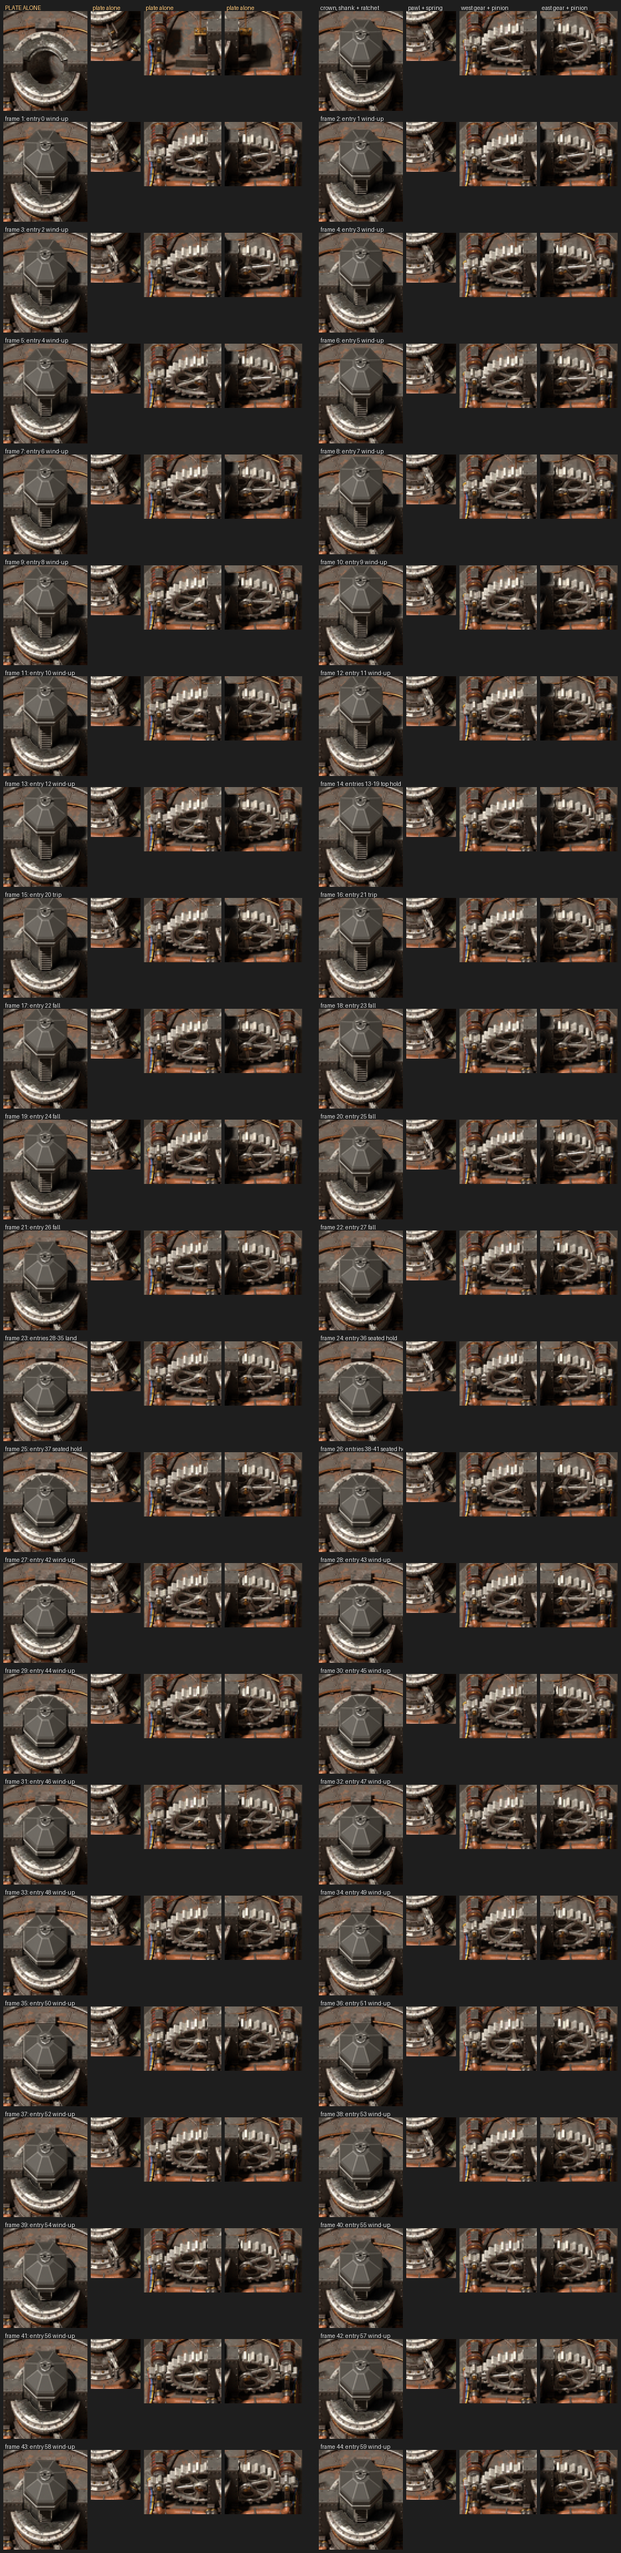
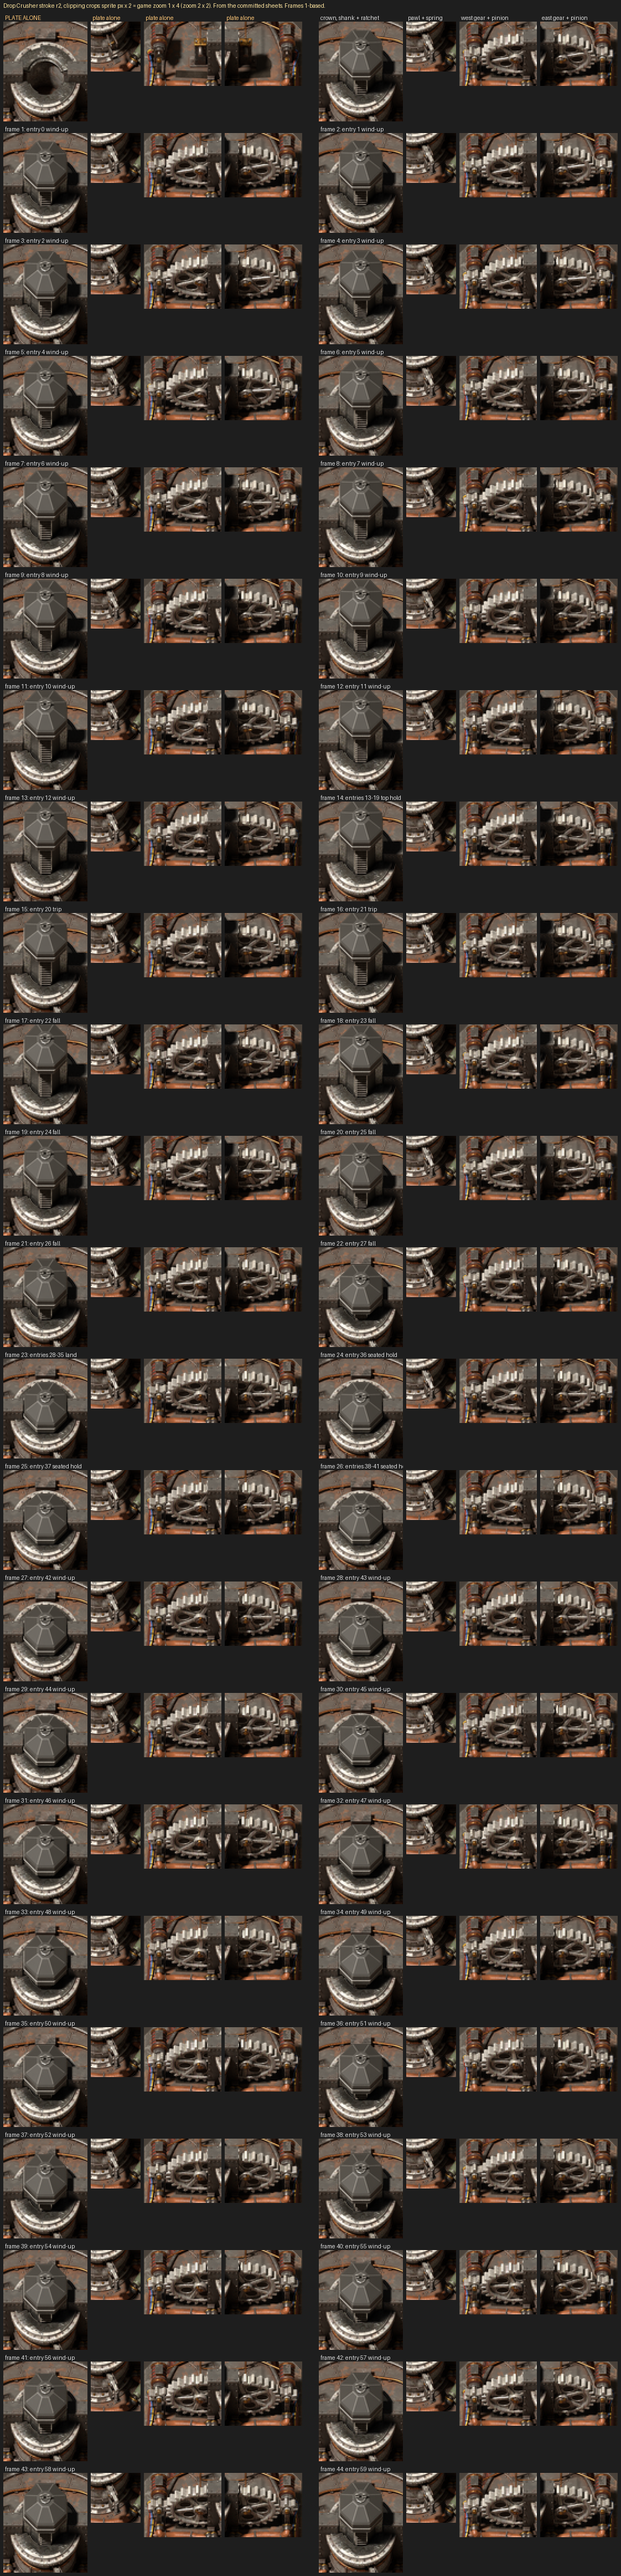
WIP: Drop Crusher T03 review fixes: GIFs at true game zoom 1 and zoom 2, one palette so holds are still, built from the committed sheets
Claude-Session: https://claude.ai/code/session_01Rt7HiYFBr7fP1oZMv54dmt

diff --git a/concept/drop-crusher/model/stroke_r2.py b/concept/drop-crusher/model/stroke_r2.py
@@ -1,41 +1,54 @@
 #!/usr/bin/env python3
 """The re-timed stroke (2026-11, .claude/tasks/drop-crusher-reanimation.md T03): its GIFs
-and its crops sheet, off a render.sh run.
+and its crops sheet, drawn from the packed sheets as the engine draws them.
 
-  python3 stroke_r2.py <out-dir> <dest-dir>
+  python3 stroke_r2.py <sheets-dir> <dest-dir>
 
-  <out-dir>   render.sh's output directory (renders/: idle, still, shadow, lamp, stroke-NN;
-              renders/render.json: the 44 sheet frames and the 60-entry frame_sequence)
-  <dest-dir>  writes stroke-r2.gif, stroke-r2-slow.gif, crops-r2.png (and crops-r2-b.png
-              if the frames do not fit one page under 8000 px)
+  <sheets-dir>  the packed sheets and their meta.json: base.png, base-shadow.png,
+                status-lamp.png, stroke.png (44 frames) and the stroke's frame_sequence
+                -- concept/drop-crusher/model/sheets, the committed ones
+  <dest-dir>    writes the files below
 
-stroke-r2.gif: the 60 entries in the sequence's order at game speed, 4 ticks an entry, 15
+Every picture is the sprites put down at their meta.json shifts round the entity's
+origin, in the engine's order: the shadow (its alpha at half, as the game darkens the
+ground), the plate, the stroke's frame, the status lamp's white cut tinted green
+(working). The sheets are scale 0.5: 64 sprite px a tile.
+
+Game zoom: at zoom 1 the game draws 32 px a tile, so a scale-0.5 sprite at half its own
+size; at zoom 2, 64 px a tile, the sprite's own pixels.
+
+  stroke-r2.gif              game zoom 1: the sprites halved (2 x 2 box average), 160 px
+                             for the 5-tile ground
+  stroke-r2-zoom2.gif        game zoom 2: the sprites' own pixels, 320 px
+  stroke-r2-slow.gif         zoom 1 at 0.25x speed
+  stroke-r2-zoom2-slow.gif   zoom 2 at 0.25x speed
+  crops-r2.png               the clipping check by eye: sprite px x 2, which is game
+                             zoom 1 x 4 (zoom 2 x 2)
+
+The GIFs play the 60 entries in the sequence's order at game speed, 4 ticks an entry, 15
 a second (GIF durations are whole 10 ms: 70, 70, 60 for 66.7 ms on average, 4.0 s a
-loop); the machine at 1x (the sprites' own pixels) on one ground with the tile grid, the
-working lamp green; the entry, its sheet frame and its step named under it.
-stroke-r2-slow.gif: the same at 0.25x (270, 270, 260 ms, 16.0 s a loop).
+loop); the slow copies 270, 270, 260 ms, 16.0 s. Every frame of a GIF is quantised to one
+palette, shared by all of them and built from all of them, without dithering, so held
+entries are the same pixels in the GIF, not only in the sheet: checked after writing,
+by reading the GIF back (main() prints it). Frame numbers are the sheet's, 1-based, as
+the prototype's frame_sequence counts them.
 
-crops-r2.png: the clipping check by eye, at 2x. Two sheet frames a row (each played entry
-named), four crops each, layered as the engine draws them (shadow, plate, the frame):
-the crown, its shank and ratchet in the collar; the pawl in its window and its spring;
-the west gear and pinion; the east gear and pinion. Its first row is the
-stillness test: the plate alone (every moving part off), the same crops, so what any
-moving part uncovers is on the plate already; beside it sheet frame 1 with the crops named.
+crops-r2.png: two sheet frames a row (each played entry named), four crops each: the
+crown, its shank and ratchet in the collar; the pawl in its window and its spring; the
+west gear and pinion; the east gear and pinion. Its first row is the stillness test:
+the plate alone, the same crops, so what any moving part uncovers is on the plate
+already; beside it sheet frame 1 with the crops named.
 """
 import json
 import os
 import sys
 
-from PIL import Image, ImageDraw
-
-HERE = os.path.dirname(os.path.abspath(__file__))
-REPO = os.path.normpath(os.path.join(HERE, "..", "..", ".."))
-sys.path.insert(0, os.path.join(REPO, "tools", "blender"))
-import pack  # noqa: E402
+from PIL import Image, ImageChops, ImageDraw
 
 GROUND = (74, 66, 58, 255)
-PPT = 64                        # sprite px a tile (scale 0.5 sheets)
-SIZE = 5 * PPT
+PPT = 64                        # sprite px a tile (scale 0.5 sheets): game zoom 2
+TILES = 5
+SIZE = TILES * PPT
 O = SIZE / 2
 STEPS = [(0, 12, "wind-up"), (13, 19, "top hold"), (20, 21, "trip"), (22, 27, "fall"), (28, 28, "land"),
          (29, 41, "seated hold"), (42, 59, "wind-up")]
@@ -45,70 +58,123 @@ CROPS = [("crown, shank + ratchet", (0.0, -1.25), 1.2, 1.4),
          ("pawl + spring", (0.24, -0.45), 0.7, 0.7),
          ("west gear + pinion", (-0.95, -1.05), 1.1, 0.9),
          ("east gear + pinion", (0.95, -1.05), 1.1, 0.9)]
+BAR = (30, 30, 30, 255)
 
 
 def step_of(e):
     return next(n for a, b, n in STEPS if a <= e <= b)
 
 
-class Crusher:
-    def __init__(self, out):
-        self.r = os.path.join(out, "renders")
-        self.decl = json.load(open(os.path.join(self.r, "render.json")))
-        a = self.decl["animations"][0]
-        self.n, self.seq = a["frames"], a["frame_sequence"]
-        self.cache = {}
+class Sheets:
+    def __init__(self, src):
+        self.src = src
+        self.meta = json.load(open(os.path.join(src, "meta.json")))
+        st = self.meta["stroke"]
+        self.n, self.seq, self.line = st["frames"], st["frame_sequence"], st["line_length"]
+        self.fw, self.fh = st["size"]
+        self.im = {k: Image.open(os.path.join(src, k + ".png")).convert("RGBA")
+                   for k in ("base", "base-shadow", "status-lamp", "stroke")}
 
-    def open(self, stem):
-        if stem not in self.cache:
-            self.cache[stem] = Image.open(os.path.join(self.r, stem + ".png")).convert("RGBA")
-        return self.cache[stem]
+    def put(self, canvas, im, key):
+        sx, sy = self.meta[key]["shift"]
+        x = round(O + sx * PPT - im.width / 2)
+        y = round(O + sy * PPT - im.height / 2)
+        canvas.alpha_composite(im, (x, y))
 
-    def panel(self, f=None, lamp=True, grid=True):
-        """The machine on the ground; f the sheet frame (0-based), None for the plate alone."""
+    def frame(self, f):
+        """Sheet frame f (0-based) cut from stroke.png."""
+        x, y = (f % self.line) * self.fw, (f // self.line) * self.fh
+        return self.im["stroke"].crop((x, y, x + self.fw, y + self.fh))
+
+    def panel(self, f=None, lamp=True):
+        """The machine on the ground at game zoom 2; f the sheet frame (0-based), None for
+        the plate alone."""
         c = Image.new("RGBA", (SIZE, SIZE), GROUND)
-        idle = self.open("idle")
-        pos = (round(O - idle.width / 2), round(O - idle.height / 2))
-        a = pack.clean(self.open("shadow").copy()).getchannel("A")
-        lay = Image.new("RGBA", c.size)
-        lay.paste(Image.new("RGBA", a.size, (0, 0, 0, 255)), pos, a.point(lambda v: v // 2))
-        c.alpha_composite(lay)
-        c.alpha_composite(idle, pos)
+        sh = self.im["base-shadow"]
+        a = sh.getchannel("A").point(lambda v: v // 2)
+        self.put(c, Image.merge("RGBA", (*Image.new("RGB", sh.size, (0, 0, 0)).split(), a)), "base-shadow")
+        self.put(c, self.im["base"], "base")
         if f is not None:
-            c.alpha_composite(self.open(f"stroke-{f:02d}"), pos)
+            self.put(c, self.frame(f), "stroke")
         if lamp:
-            r, g, b, al = pack.light_layer(self.open("lamp")).split()
+            r, g, b, al = self.im["status-lamp"].split()
             z = r.point(lambda v: 0)
-            c.alpha_composite(Image.merge("RGBA", (z, g, z, al)), pos)
-        if grid:
-            d = ImageDraw.Draw(c, "RGBA")
-            for i in range(6):
-                v = round(O + (i - 2.5) * PPT)
-                d.line([(v, 0), (v, SIZE)], fill=(255, 255, 255, 40))
-                d.line([(0, v), (SIZE, v)], fill=(255, 255, 255, 40))
+            self.put(c, Image.merge("RGBA", (z, g, z, al)), "status-lamp")
         return c
 
 
-def label(im, text, bar=14, fill=(220, 220, 220, 255)):
-    o = Image.new("RGBA", (im.width, im.height + bar), (30, 30, 30, 255))
+def grid(c, ppt):
+    d = ImageDraw.Draw(c, "RGBA")
+    o = c.width / 2
+    for i in range(TILES + 1):
+        v = round(o + (i - TILES / 2) * ppt)
+        d.line([(v, 0), (v, c.height)], fill=(255, 255, 255, 40))
+        d.line([(0, v), (c.width, v)], fill=(255, 255, 255, 40))
+    return c
+
+
+def label(im, lines, fill=(220, 220, 220, 255)):
+    lines = [lines] if isinstance(lines, str) else lines
+    bar = 4 + 11 * len(lines)
+    o = Image.new("RGBA", (im.width, im.height + bar), BAR)
     o.alpha_composite(im, (0, bar))
-    ImageDraw.Draw(o).text((3, 2), text, fill=fill)
-    return o
+    d = ImageDraw.Draw(o)
+    for i, t in enumerate(lines):
+        d.text((3, 2 + 11 * i), t, fill=fill)
+    return o, bar
 
 
-def gifs(cr, dest):
-    frames = []
-    for e, f1 in enumerate(cr.seq):
-        acc = f"  * {ACCENTS[e]} sound" if e in ACCENTS else ""
-        fr = label(cr.panel(f1 - 1), f"entry {e:2d}  frame {f1:2d}  {step_of(e)}{acc}", bar=16)
-        frames.append(fr.convert("RGB"))
-    out = {}
-    for name, unit in (("stroke-r2.gif", (70, 70, 60)), ("stroke-r2-slow.gif", (270, 270, 260))):
-        dur = [unit[e % 3] for e in range(len(frames))]
-        path = os.path.join(dest, name)
-        frames[0].save(path, save_all=True, append_images=frames[1:], duration=dur, loop=0)
-        out[name] = (path, sum(dur), frames[0].size)
-    return out
+def gif_frames(sh, zoom):
+    """The 60 entries' frames at game zoom 1 or 2, and the label bar's height."""
+    out, bar = [], 0
+    for e, f1 in enumerate(sh.seq):
+        p = sh.panel(f1 - 1)
+        acc = f"* {ACCENTS[e]} sound" if e in ACCENTS else ""
+        if zoom == 1:
+            p = grid(p.resize((SIZE // 2, SIZE // 2), Image.BOX), PPT // 2)
+            fr, bar = label(p, [f"zoom 1  entry {e}", f"frame {f1} {step_of(e)} {acc}".rstrip()])
+        else:
+            fr, bar = label(grid(p, PPT), f"zoom 2  entry {e}  frame {f1}  {step_of(e)}  {acc}".rstrip())
+        out.append(fr.convert("RGB"))
+    return out, bar
+
+
+def save_gif(frames, path, unit):
+    """One palette for every frame, built from all of them; no dithering."""
+    w, h = frames[0].size
+    strip = Image.new("RGB", (w, h * len(frames)))
+    for i, fr in enumerate(frames):
+        strip.paste(fr, (0, h * i))
+    pal = strip.quantize(256, method=Image.Quantize.MEDIANCUT, dither=Image.Dither.NONE)
+    q = [fr.quantize(palette=pal, dither=Image.Dither.NONE) for fr in frames]
+    dur = [unit[e % 3] for e in range(len(q))]
+    q[0].save(path, save_all=True, append_images=q[1:], duration=dur, loop=0, optimize=False)
+    return sum(dur)
+
+
+def check_gif(path, seq, bar, src_frames):
+    """Read the GIF back: every held entry's picture (below the label) the same pixels as
+    its run's first; and the most any entry's picture is off its source frame."""
+    g = Image.open(path)
+    got = []
+    for i in range(g.n_frames):
+        g.seek(i)
+        im = g.convert("RGB")
+        got.append(im.crop((0, bar, im.width, im.height)))
+    assert len(got) == len(seq), f"{path}: {len(got)} frames, not {len(seq)}"
+    runs = {}
+    for e, f1 in enumerate(seq):
+        runs.setdefault(f1, []).append(e)
+    held = []
+    for f1, es in runs.items():
+        if len(es) > 1:
+            same = all(ImageChops.difference(got[es[0]], got[e]).getbbox() is None for e in es[1:])
+            held.append((f1, es[0], es[-1], same))
+    worst = 0
+    for e, fr in enumerate(src_frames):
+        d = ImageChops.difference(fr.crop((0, bar, fr.width, fr.height)), got[e])
+        worst = max(worst, max(hi for _, hi in d.getextrema()))
+    return held, worst
 
 
 def crop(panel, at, w, h, k=2):
@@ -118,41 +184,43 @@ def crop(panel, at, w, h, k=2):
     return im.resize((im.width * k, im.height * k), Image.NEAREST)
 
 
-def crops(cr, dest, page_h=7900):
+def crops(sh, dest, page_h=7900):
     cells = []
-    plate = cr.panel(None, lamp=False, grid=False)
-    cells.append([label(crop(plate, at, w, h), "PLATE ALONE" if i == 0 else "plate alone", fill=(255, 200, 120, 255))
-                  for i, (name, at, w, h) in enumerate(CROPS)])
-    cells.append([label(crop(cr.panel(0, lamp=False, grid=False), at, w, h), name) for name, at, w, h in CROPS])
-    for f in range(cr.n):
-        es = [e for e, f1 in enumerate(cr.seq) if f1 == f + 1]
-        p = cr.panel(f, lamp=False, grid=False)
+    plate = sh.panel(None, lamp=False)
+    cells.append([label(crop(plate, at, w, h), "PLATE ALONE" if i == 0 else "plate alone",
+                        fill=(255, 200, 120, 255))[0] for i, (name, at, w, h) in enumerate(CROPS)])
+    cells.append([label(crop(sh.panel(0, lamp=False), at, w, h), name)[0] for name, at, w, h in CROPS])
+    for f in range(sh.n):
+        es = [e for e, f1 in enumerate(sh.seq) if f1 == f + 1]
+        p = sh.panel(f, lamp=False)
         txt = f"frame {f + 1}: entr{'ies' if len(es) > 1 else 'y'} {es[0]}" + (f"-{es[-1]}" if len(es) > 1 else "")
         txt += f" {step_of(es[0])}"
-        cells.append([label(crop(p, at, w, h), txt if i == 0 else "") for i, (name, at, w, h) in enumerate(CROPS)])
-    # two sheet frames a row (the first row: the plate alone, then the crops' names on frame 1)
+        cells.append([label(crop(p, at, w, h), txt if i == 0 else "")[0] for i, (name, at, w, h) in enumerate(CROPS)])
     gap = 6
     rows = []
     for i in range(0, len(cells), 2):
         row = []
         for c in cells[i:i + 2]:
-            row += c + [Image.new("RGBA", (gap * 3, 1), (30, 30, 30, 255))]
+            row += c + [Image.new("RGBA", (gap * 3, 1), BAR)]
         rows.append(row[:-1])
-    pages, cur, hh = [], [], gap
+    title = ("Drop Crusher stroke r2, clipping crops: sprite px x 2 = game zoom 1 x 4 (zoom 2 x 2). "
+             "From the committed sheets. Frames 1-based.")
+    pages, cur, hh = [], [], gap + 18
     for row in rows:
         rh = max(im.height for im in row) + gap
         if cur and hh + rh > page_h:
             pages.append(cur)
-            cur, hh = [], gap
+            cur, hh = [], gap + 18
         cur.append(row)
         hh += rh
     pages.append(cur)
     paths = []
     for i, pg in enumerate(pages):
         width = max(sum(im.width for im in row) + gap * (len(row) + 1) for row in pg)
-        height = sum(max(im.height for im in row) + gap for row in pg) + gap
-        sheet = Image.new("RGBA", (width, height), (30, 30, 30, 255))
-        y = gap
+        height = sum(max(im.height for im in row) + gap for row in pg) + gap + 18
+        sheet = Image.new("RGBA", (width, height), BAR)
+        ImageDraw.Draw(sheet).text((gap, 4), title, fill=(255, 230, 160, 255))
+        y = gap + 18
         for row in pg:
             x = gap
             for im in row:
@@ -165,15 +233,27 @@ def crops(cr, dest, page_h=7900):
     return paths
 
 
-def main(out, dest):
-    cr = Crusher(out)
-    for name, (path, ms, size) in gifs(cr, dest).items():
-        print(path, f"{ms} ms a loop, {size[0]} x {size[1]}")
-    for path, size in crops(cr, dest):
+def main(src, dest):
+    sh = Sheets(src)
+    ok = True
+    for zoom, names in ((1, ("stroke-r2.gif", "stroke-r2-slow.gif")),
+                        (2, ("stroke-r2-zoom2.gif", "stroke-r2-zoom2-slow.gif"))):
+        frames, bar = gif_frames(sh, zoom)
+        for name, unit in zip(names, ((70, 70, 60), (270, 270, 260))):
+            path = os.path.join(dest, name)
+            ms = save_gif(frames, path, unit)
+            held, worst = check_gif(path, sh.seq, bar, frames)
+            ok &= all(s for *_, s in held)
+            runs = ", ".join(f"frame {f1} entries {a}-{b} {'identical' if s else 'DIFFER'}" for f1, a, b, s in held)
+            print(f"{path}: {frames[0].size[0]} x {frames[0].size[1]}, {len(frames)} frames, {ms} ms a loop; "
+                  f"held: {runs}; most a channel is off its source frame: {worst}")
+    for path, size in crops(sh, dest):
         print(path, f"{size[0]} x {size[1]}")
+    if not ok:
+        sys.exit("stroke_r2.py: a held entry differs in a GIF")
 
 
 if __name__ == "__main__":
     if len(sys.argv) != 3:
-        sys.exit("usage: stroke_r2.py <out-dir> <dest-dir>")
+        sys.exit("usage: stroke_r2.py <sheets-dir> <dest-dir>")
     main(*sys.argv[1:])

diff --git a/concept/drop-crusher/model/drop_crusher.py b/concept/drop-crusher/model/drop_crusher.py
@@ -178,8 +178,8 @@ for _e in range(ENTRIES):
     SEQUENCE.append(KEYS.index(_k) + 1)     # 1-based, as the prototype's frame_sequence
 FRAMES = len(KEYS)                          # 44
 ENTRY_OF = [SEQUENCE.index(f + 1) for f in range(FRAMES)]   # each sheet frame's first entry
-TOP = SEQUENCE[TRIP_AT + 1] - 1             # sheet frame 15: the top, the pawl kicked clear (the icon's pose)
-SEAT = SEQUENCE[LAND_AT] - 1                # sheet frame 22: the crown lands seated
+TOP = SEQUENCE[TRIP_AT + 1] - 1             # index 15 (0-based; sheet frame 16 1-based): the top, pawl clear (icon)
+SEAT = SEQUENCE[LAND_AT] - 1                # index 22 (0-based; sheet frame 23 1-based): the crown lands seated
 assert FRAMES == 44 and len(SEQUENCE) == ENTRIES
 
 # Held to the study's own figures, so the model and the plan cannot drift apart
